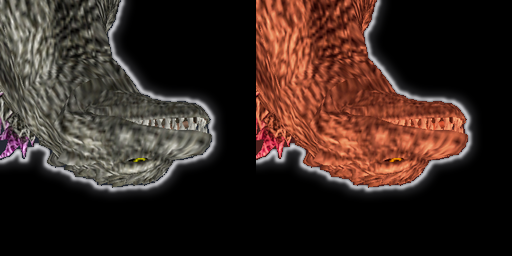
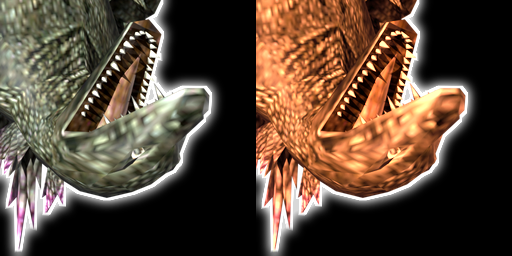
Godzilla 2000 e 90s (STE): retratos do HUD renderizados dos próprios modelos
Os retratos eram imagens de outras versões (o do Godzilla 2000 e o do prototype do mod
Godzilla). Agora saem do rig.glb de cada um, no Blender, no estilo dos retratos do disco:
cabeça rugindo em 3/4 virada para a direita, contorno branco com brilho sobre o preto,
metade direita "rage" (realces em vermelho e laranja), gravado de ponta-cabeça.
- 2000: taunt a92 no quadro 60, mandíbula aberta mais 30 graus.
- 90s: rugido a208 no quadro 0, mais 22 graus.
Scripts em mods/_godzilla2000_ste_src (portrait_render.py para o Blender, portrait_compose.py
para a montagem) e a tomada de cada um em portrait_shot.json; receita nos LEIAME.

Conferido bootando WOTM_MATCH=godzilla_ste,godzilla90s_ste,1: log com LIZARD4.RTX t3 e
LIZARD5.RTX t3 lendo os retratos novos; foto do HUD em docs/screenshots/2026-11-23.

Claude-Session: https://claude.ai/code/session_01KY66AnjS2b1CT54fgUDhE7

diff --git a/mods/_godzilla2000_ste_src/portrait_render.py b/mods/_godzilla2000_ste_src/portrait_render.py
@@ -1,0 +1,112 @@
+# Retrato do HUD a partir do modelo do STE: blender -b -P portrait_render.py -- <rig.glb> <prefixo de saida> <portrait_shot.json>
+# Renderiza a cabeca (fundo transparente) e grava <prefixo>_<name>.png; portrait_compose.py monta o retrato.
+# Cada tomada: {"clip": "a92", "frame": 60, "az": 45, "el": 8, "dist": 48, "name": "final", "jaw": 30, "jawAxis": "Z",
+#               "look": [dx,dy,dz], "size": 512, "lens": 50, "keyE": 6, "rimE": 7, "key": [frente, lado, cima]}
+# clip/frame: a pose (animacao do rig.glb, congelada no quadro); jaw: graus a mais na Bip01_Jaw (Z abre a boca);
+# az/el/dist: camera em volta do meio da cabeca (+Y e a frente do monstro: az 0 = perfil virado para a direita).
+import bpy, sys, json, math
+from mathutils import Vector, Matrix, Euler
+
+argv = sys.argv[sys.argv.index("--") + 1:]
+glb, out, shots = argv[0], argv[1], json.loads(open(argv[2]).read())
+
+bpy.ops.wm.read_factory_settings(use_empty=True)
+bpy.ops.import_scene.gltf(filepath=glb)
+arm = next(o for o in bpy.data.objects if o.type == "ARMATURE")
+body = next(o for o in bpy.data.objects if o.type == "MESH")
+scn = bpy.context.scene
+
+# materiais: base color da textura, sem metal, um pouco de brilho
+for m in bpy.data.materials:
+    if not m.use_nodes:
+        continue
+    for n in m.node_tree.nodes:
+        if n.type == "BSDF_PRINCIPLED":
+            n.inputs["Metallic"].default_value = 0.0
+            n.inputs["Roughness"].default_value = 0.55
+            if "Specular IOR Level" in n.inputs:
+                n.inputs["Specular IOR Level"].default_value = 0.35
+    m.use_backface_culling = False
+
+scn.render.engine = "BLENDER_EEVEE"
+scn.render.film_transparent = True
+scn.render.image_settings.file_format = "PNG"
+scn.render.image_settings.color_mode = "RGBA"
+scn.view_settings.view_transform = "Standard"
+scn.world = bpy.data.worlds.new("w")
+scn.world.use_nodes = True
+bg = scn.world.node_tree.nodes["Background"]
+bg.inputs[0].default_value = (0.25, 0.25, 0.28, 1)
+bg.inputs[1].default_value = 0.6
+
+cam = bpy.data.objects.new("cam", bpy.data.cameras.new("cam"))
+scn.collection.objects.link(cam)
+scn.camera = cam
+
+def light(name, kind, energy, rot, color=(1, 1, 1)):
+    l = bpy.data.lights.new(name, kind)
+    l.energy = energy
+    l.color = color
+    o = bpy.data.objects.new(name, l)
+    o.rotation_euler = Euler([math.radians(a) for a in rot])
+    scn.collection.objects.link(o)
+    return o
+
+key = light("key", "SUN", 4.0, (0, 0, 0))
+rim = light("rim", "SUN", 3.0, (0, 0, 0), (0.9, 0.95, 1.0))
+fill = light("fill", "SUN", 0.8, (0, 0, 0))
+
+def bone_world(name, head=True):
+    pb = arm.pose.bones[name]
+    return arm.matrix_world @ (pb.head if head else pb.tail)
+
+def look_at(obj, target):
+    d = (target - obj.location).normalized()
+    obj.rotation_euler = d.to_track_quat("-Z", "Y").to_euler()
+
+def aim_sun(obj, direction):
+    obj.rotation_euler = (-direction.normalized()).to_track_quat("-Z", "Y").to_euler()
+
+for s in shots:
+    act = bpy.data.actions.get(s["clip"])
+    if arm.animation_data is None:
+        arm.animation_data_create()
+    arm.animation_data.action = act
+    if act is not None and hasattr(arm.animation_data, "action_slot") and act.slots:
+        arm.animation_data.action_slot = act.slots[0]
+    scn.frame_set(int(s.get("frame", 0)))
+    arm.animation_data.action = None  # congela a pose do quadro (o render reaplicaria a animacao)
+    jaw = s.get("jaw", 0)
+    pj = arm.pose.bones.get("Bip01_Jaw")
+    if pj is not None and jaw:
+        pj.rotation_mode = "QUATERNION"
+        ax = s.get("jawAxis", "Z")
+        e = [0, 0, 0]
+        e["XYZ".index(ax)] = math.radians(jaw)
+        pj.rotation_quaternion = pj.rotation_quaternion @ Euler(e).to_quaternion()
+    bpy.context.view_layer.update()
+
+    head = bone_world("Bip01_Head")
+    jawp = bone_world("Bip01_Jaw")
+    tgt = (head + jawp) * 0.5 + Vector(s.get("look", [0, 0, 0]))
+    az, el, dist = math.radians(s.get("az", 90)), math.radians(s.get("el", 10)), s.get("dist", 2.0)
+    off = Vector((math.cos(el) * math.cos(az), math.cos(el) * math.sin(az), math.sin(el))) * dist
+    cam.location = tgt + off
+    look_at(cam, tgt)
+    cam.data.lens = s.get("lens", 50)
+    # luz: chave de cima e da frente da camera, recorte de tras
+    fwd = (tgt - cam.location).normalized()
+    up = Vector((0, 0, 1))
+    side = fwd.cross(up).normalized()
+    kd = s.get("key", [0.6, -0.5, 0.7])
+    aim_sun(key, fwd * kd[0] + side * kd[1] - up * kd[2])
+    aim_sun(rim, -fwd * 1.0 - side * 0.4 - up * 0.3)
+    aim_sun(fill, fwd * 0.5 + side * 0.8 + up * 0.2)
+    key.data.energy = s.get("keyE", 4.0)
+    rim.data.energy = s.get("rimE", 3.0)
+    sz = s.get("size", 512)
+    scn.render.resolution_x = sz
+    scn.render.resolution_y = sz
+    scn.render.filepath = "%s_%s.png" % (out, s["name"])
+    bpy.ops.render.render(write_still=True)
+print("pronto")

diff --git a/mods/_godzilla2000_ste_src/portrait_compose.py b/mods/_godzilla2000_ste_src/portrait_compose.py
@@ -1,0 +1,43 @@
+# portrait_compose.py <render rgba 512x512 do portrait_render.py> <saida portrait.png 512x256> [previa sem inverter.png]
+# Retrato do HUD no estilo dos do disco: fundo preto, contorno branco com brilho, metade esquerda normal e direita
+# "rage" (realces em laranja e vermelho); gravado de ponta-cabeca, como os do .RTX.
+import sys
+import numpy as np
+from PIL import Image, ImageFilter
+
+src, dst = sys.argv[1], sys.argv[2]
+im = Image.open(src).convert("RGBA").resize((256, 256), Image.LANCZOS)
+a = np.asarray(im).astype(np.float32) / 255.0
+rgb, al = a[..., :3], a[..., 3:4]
+
+# contraste como nos retratos do disco
+lum = (rgb * [0.299, 0.587, 0.114]).sum(-1, keepdims=True)
+rgb = np.clip((rgb - 0.5) * 1.25 + 0.5 + 0.03, 0, 1)
+sat = 1.15
+g = (rgb * [0.299, 0.587, 0.114]).sum(-1, keepdims=True)
+rgb = np.clip(g + (rgb - g) * sat, 0, 1)
+
+# rage: tons de fogo pela luminancia (escuro -> vermelho -> laranja -> amarelo), misturados por cima
+l = (rgb * [0.299, 0.587, 0.114]).sum(-1, keepdims=True)
+fire = np.concatenate([np.clip(l * 1.9, 0, 1), np.clip(l * 0.75 - 0.05, 0, 1), np.clip(l * 0.35 - 0.1, 0, 1)], -1)
+rage = np.clip(rgb * 0.6 + fire * 0.65, 0, 1)
+
+# contorno branco: alpha dilatado e desfocado
+mask = Image.fromarray((al[..., 0] * 255).astype(np.uint8))
+dil = mask.filter(ImageFilter.MaxFilter(9))
+halo = np.asarray(dil.filter(ImageFilter.GaussianBlur(5))).astype(np.float32)[..., None] / 255.0
+edge = np.asarray(mask.filter(ImageFilter.MaxFilter(7))).astype(np.float32)[..., None] / 255.0
+glow = np.clip(halo * 1.3, 0, 1) * 0.85
+glow = np.maximum(glow, edge)
+
+def over_black(c):
+    base = np.ones_like(c) * glow  # branco do brilho sobre o preto
+    return base * (1 - al) + c * al
+
+L = over_black(rgb)
+R = over_black(rage)
+out = np.concatenate([L, R], 1)
+img = Image.fromarray((np.clip(out, 0, 1) * 255).astype(np.uint8), "RGB")
+if len(sys.argv) > 3:
+    img.save(sys.argv[3])
+img.transpose(Image.FLIP_TOP_BOTTOM).save(dst)
